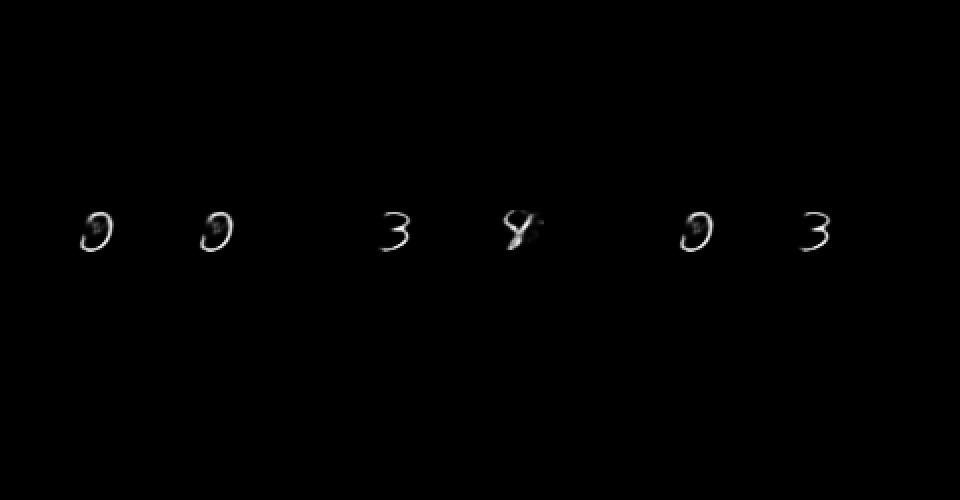
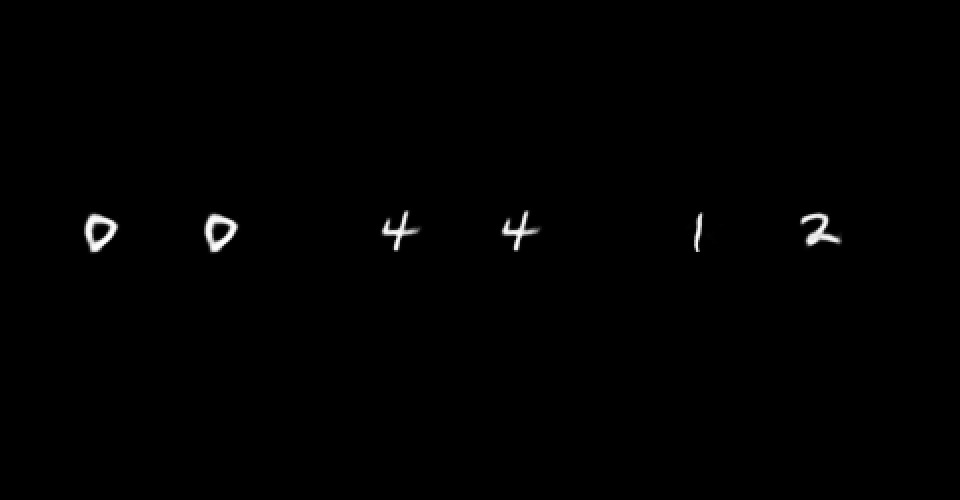
Tighter bounds on anchor drift seems to help

diff --git a/clock.js b/clock.js
@@ -218,7 +218,7 @@ var concept_vecs_mean = [
   ]
 ];
 
-var curAnchor = [0.6, 0.6, 0.6, 0.6, 0.6, 0.6, 0.6, 0.6];
+var curAnchor = [0.1, 0.1, 0.1, 0.1, 0.1, 0.1, 0.1, 0.1];
 var curDAnchor = [0.6, 0.6, 0.6, 0.6, 0.6, 0.6, 0.6, 0.6];
 
 var curModelImages = [null, null, null, null, null, null];
@@ -265,12 +265,12 @@ function local_setup() {
 function move_anchor() {
   for(var i=0; i<8; i++) {
     var next = curAnchor[i] + curDAnchor[i];
-    if(next > 1) {
-      curDAnchor[i] = random(-0.01, -0.05);
+    if(next > 0.5) {
+      curDAnchor[i] = random(-0.01, -0.03);
       next = curAnchor[i] + curDAnchor[i];
     }
-    else if(next < -1) {
-      curDAnchor[i] = random(0.01, 0.05);
+    else if(next < -0.5) {
+      curDAnchor[i] = random(0.01, 0.03);
       next = curAnchor[i] + curDAnchor[i];
     }
     curAnchor[i] = next;

diff --git a/README.md b/README.md
@@ -1,1 +1,3 @@
-## Strange malfunctioning MNIST clock
+## Strange MNIST clock
+
+Build with a variational auto-encoder and 10 concept vectors in 8 dimensinoal latent space. The digit style changes as the concept vectos are applied to a drifting anchor point.
